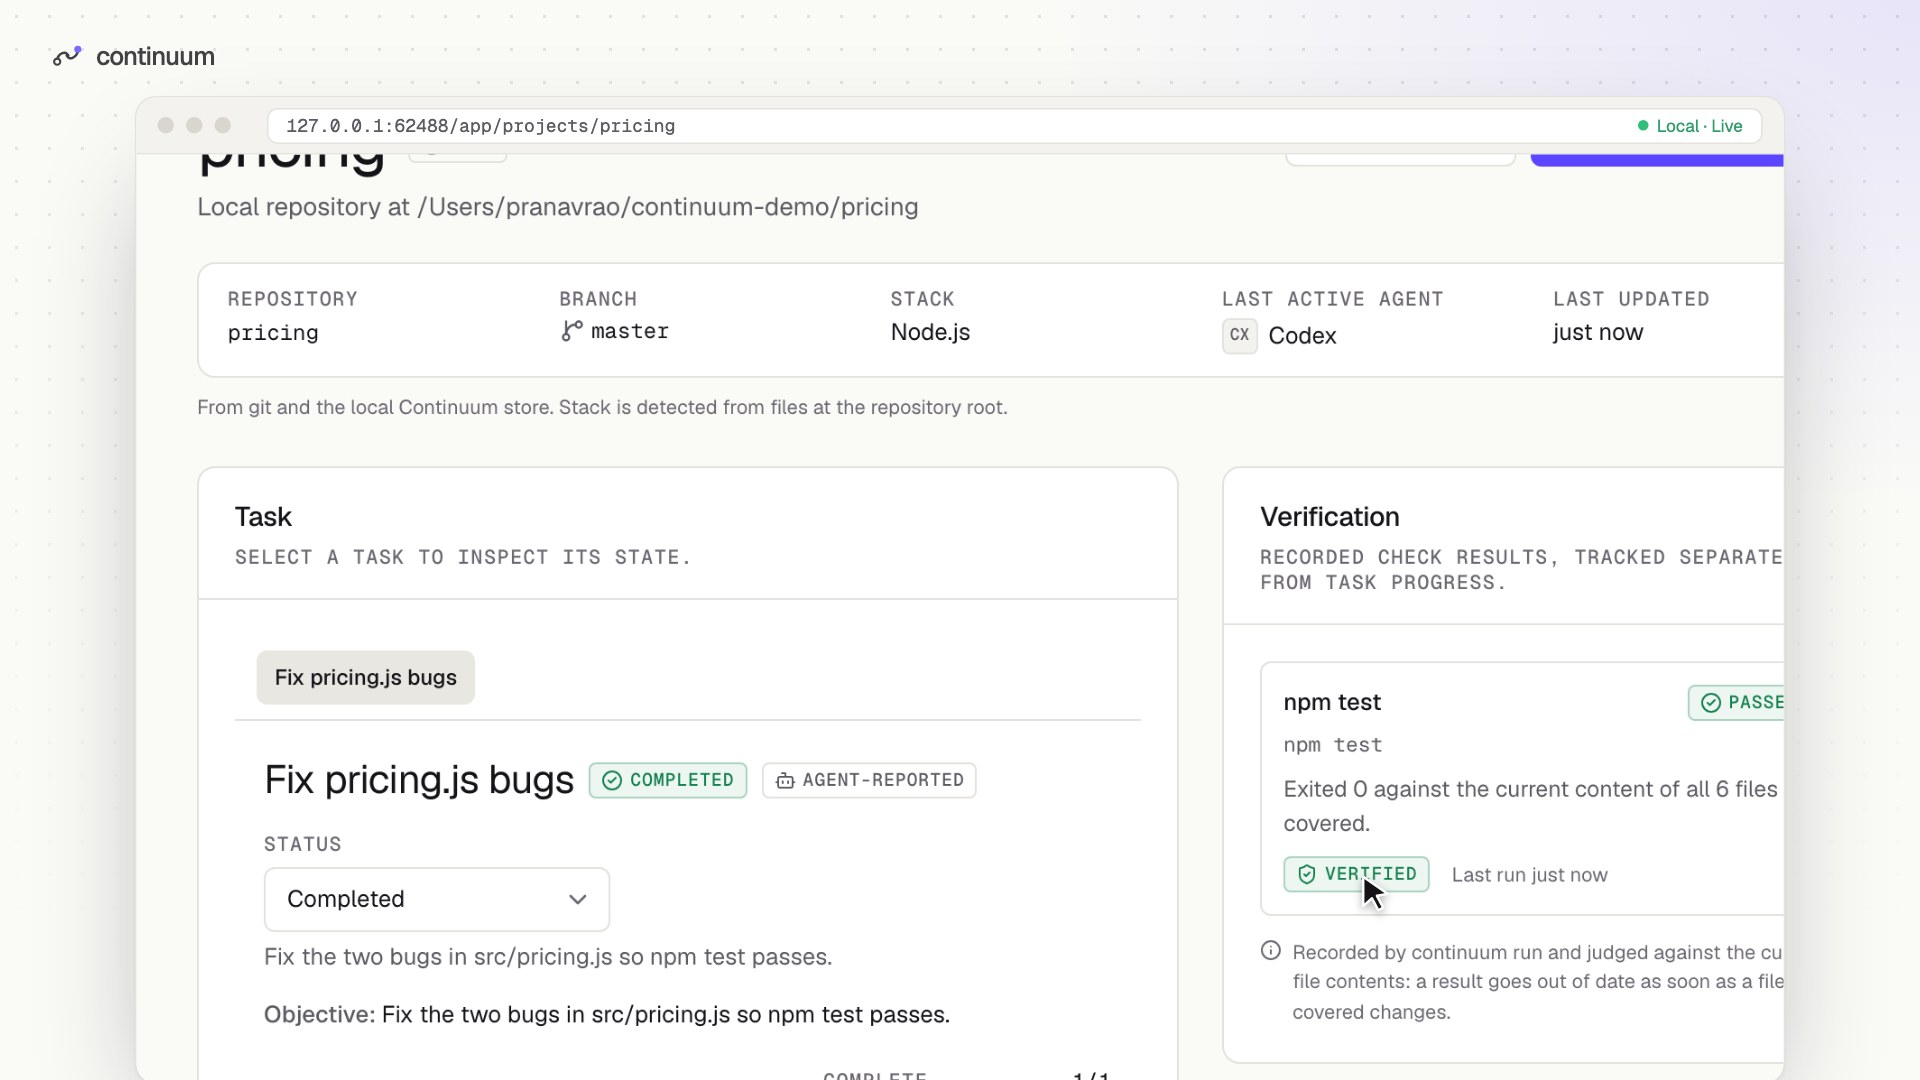
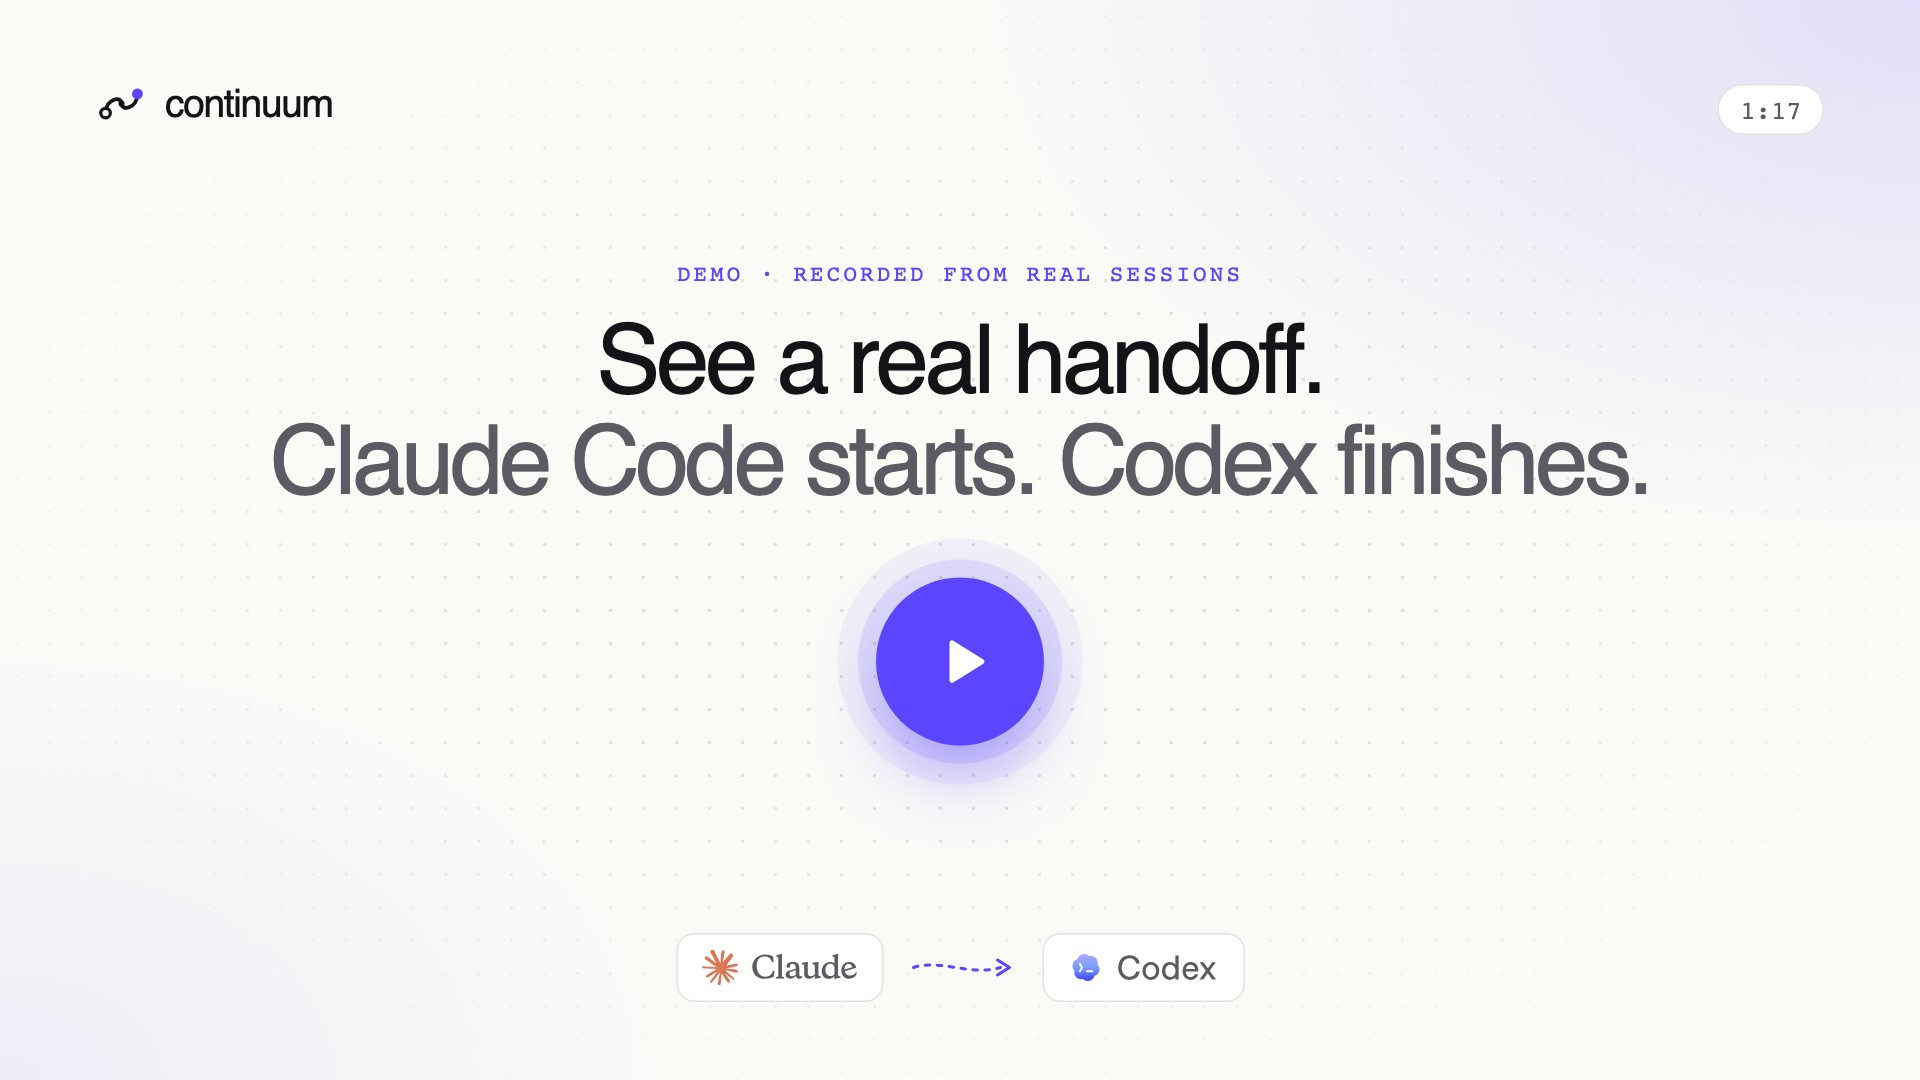
feat(site): a designed cover for the demo video
The video showed a frame from its middle (the dashboard) as its cover.
It now has a designed one, rendered like the share image from the site's
fonts, colours and logos: the Continuum logo, 'See a real handoff. Claude
Code starts. Codex finishes.', a play button, the Claude to Codex handoff,
and the video's length read from the file. The README uses the same image.
record.mjs no longer writes a poster, so a re-recording cannot replace it.

diff --git a/scripts/demo-video/README.md b/scripts/demo-video/README.md
@@ -14,6 +14,8 @@ node scripts/demo-video/capture.mjs --work ~/continuum-demo --codex-model gpt-5.
 # 2. Render the video, poster and captions at 1920×1080, with the voiceover. Needs ffmpeg.
 #    Run it right after step 1, so the dashboard shows times like "5 min ago".
 node scripts/demo-video/record.mjs --work ~/continuum-demo
+# 3. Refresh the video's cover, which shows its length.
+node scripts/site/images.mjs
 rm -rf ~/continuum-demo
 ```
 
